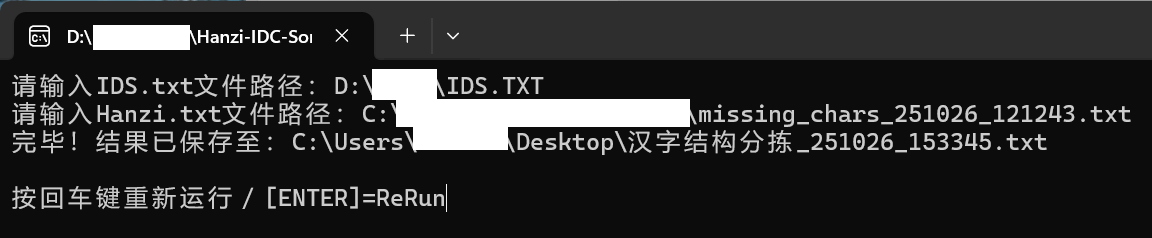
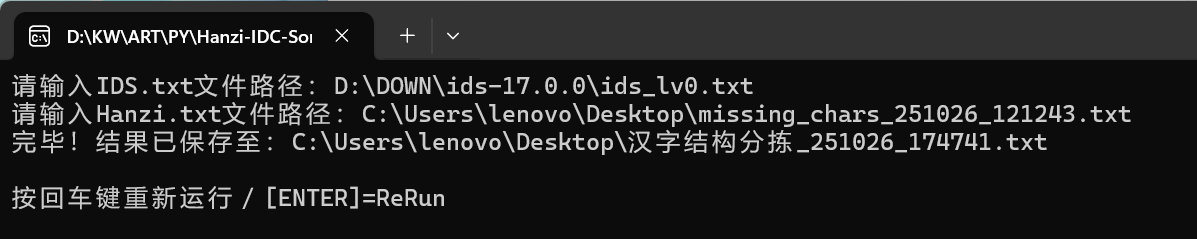
部分重制

diff --git a/Hanzi-IDC-Sort.py b/Hanzi-IDC-Sort.py
@@ -40,17 +40,37 @@ while True:
             line = line.strip()
             if not line or line.startswith("#"):
                 continue
-            # 检测对应汉字
-            parts = line.split()
+
+            parts = line.split("\t", 1)
             if len(parts) < 2:
                 continue
-            char = parts[1]
 
-            # 找到第一个IDC
-            for ch in line:
-                if ch in IDC_SET:
-                    char_to_idc[char] = ch
+            char, ids_expr = parts[0], parts[1]
+
+            segments = ids_expr.split(";")
+
+            found_idcs = []
+
+            for seg in segments:
+                for ch in seg:
+                    if ch in IDC_SET:
+                        found_idcs.append(ch)
+                        break  
+            if not found_idcs:
+                continue
+
+            # === 优先级判断 ===
+            final_idc = found_idcs[0]
+            for idc in found_idcs:
+                if idc == "⿲":
+                    final_idc = idc
                     break
+                elif idc == "⿳" and final_idc != "⿲":
+                    final_idc = idc
+
+            char_to_idc[char] = final_idc
+
+
 
     # === 读取Hanzi.txt ===
     structure_dict = defaultdict(list)

diff --git a/README.md b/README.md
@@ -6,27 +6,27 @@
 
 ![P_0](P_0.png)
 
-输入汉字列表（txt格式），检测结构数据库（[IDS.txt](https://www.babelstone.co.uk/CJK/IDS.HTML)，字符串格式`U+4E0B	下	^⿱一卜$(GHTJKPV)`）中对应IDS序列中的第一个[IDC](https://www.qiuwenbaike.cn/wiki/表意文字描述字符)符号，进而判别汉字结构完成分拣。
+输入汉字列表（txt格式），根据[IDS数据库](https://github.com/yi-bai/ids)（txt格式）检测对应序列中的第一个[IDC](https://www.qiuwenbaike.cn/wiki/表意文字描述字符)符号，进而判别汉字结构完成分拣。
 
-Input a list (txt) of Chinese characters, detect the first [IDC](https://en.wikipedia.org/wiki/Ideographic_Description_Characters) in the IDS in the structure database ([IDS.txt](https://www.babelstone.co.uk/CJK/IDS.HTML), string: `U+4E0B 下 ^⿱一卜$(GHTJKPV)`), and then determine the structure to complete the sorting.
+Input a list (txt) of Chinese characters, detect the first [IDC](https://en.wikipedia.org/wiki/Ideographic_Description_Characters) in the sequence in the [IDS database](https://github.com/yi-bai/ids) (txt), and then determine the structure to complete the sorting.
 
 ![P_1](P_1.png)
 
-显然，这种检测只是初步判断。如”撒“因其在IDS.txt的对应序列为`U+6492	撒	^⿰扌散$(GHTJKP)`而被归为左右结构，但实际上或许应视为左中右结构。
+在判别中，为保证左中右、上中下结构的可见度，就`搿	⿰龵㧱(.);⿰𭠫手(H);⿲龵合.手(J)`这样的序列而言，⿲/⿳的优先级要高于⿰/⿱。但这也可能使`脔	⿱𰁜肉(.);⿱亦H肉(H);⿱亦J肉(J);⿳亠.⿰丿小s肉(T)`等引发误导。
 
-Obviously, this software is preliminary. For example, the 撒 is classified as a left-to-right structure because its sequence in IDS.txt is `U+6492 撒 ^⿰扌散$(GHTJKP)`, but in fact it might be classified as a left-to-middle-and-right structure more appropriately.
+In sorting, ⿲/⿳ takes precedence over ⿰/⿱ in sequences like `搿 ⿰龵㧱(.);⿰𭠫手(H);⿲龵合.手(J)` to ensure greater visibility of the Left-to-Middle-and-Right and Above-to-Middle-and-Below structures. However, this may also make `脔 ⿱𰁜肉(.);⿱亦H肉(H);⿱亦J肉(J);⿳亠.⿰丿小S肉(T)` etc. be misleading.
 
 ### 下载<br>Download
 
-在[Releases](https://github.com/Fisher4124/Hanzi-IDC-Sort/releases)页面下载` Hanzi-IDC-Sort.exe`（或[百度网盘](https://pan.baidu.com/s/1qsCvp0IlN3-JCReMhYYlog)）。
+在[Releases](https://github.com/Fisher4124/Hanzi-IDC-Sort/releases)页面下载`Hanzi-IDC-Sort.exe`（或[百度网盘](https://pan.baidu.com/s/11NToCQO79YeWIPNwfjWkXw)）。
 
 Download `Hanzi-IDC-Sort.exe` from the [Releases](https://github.com/Fisher4124/Hanzi-IDC-Sort/releases) page.
 
 ### 结构数据<br>IDS.txt
 
-<span style="border:1px solid black; padding:2px 4px; display:inline-block;">[魏安](https://www.babelstone.co.uk/)</span>所提供的[IDS.txt](https://www.babelstone.co.uk/CJK/IDS.HTML)。
+[白易](https://github.com/yi-bai)所提供的[IDS.txt](https://github.com/yi-bai/ids)。
 
-[IDS.txt](https://www.babelstone.co.uk/CJK/IDS.HTML) by †[Andrew West](https://www.babelstone.co.uk/).
+[IDS.txt](https://github.com/yi-bai/ids) by [Yi Bai](https://github.com/yi-bai).
 
 
 
